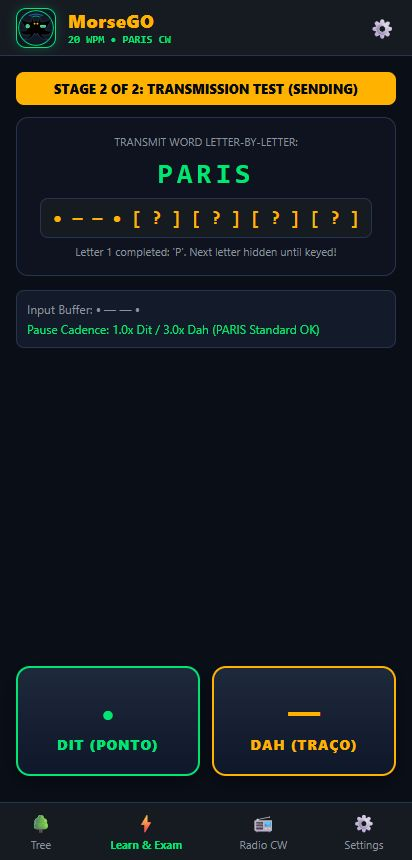
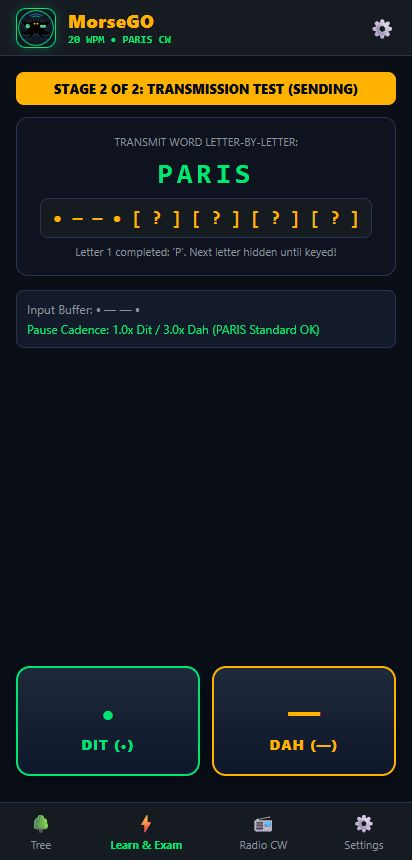
fix: eliminate language mixing across send/receive flows, add bilingual timing cadence, and add screen rotation behavior tests

Changed region(s): [[0.6117, 0.8465, 0.8738, 0.8767], [0.1456, 0.8465, 0.3786, 0.8767]]

diff --git a/reports/unit-tests/index.html b/reports/unit-tests/index.html
@@ -3025,7 +3025,7 @@
                     <span class="suite-badge-window">WINDOW 3/6</span>
                     <span class="suite-name">Window: Exam - Transmission Stage (LearnFragment)</span>
                 </div>
-                <span class="test-pass-tag">6 PASSED (100% COVERAGE)</span>
+                <span class="test-pass-tag">8 PASSED (100% COVERAGE)</span>
             </div>
             <ul class="test-list">
                 <li class="test-item">
@@ -3069,6 +3069,20 @@
                         <span><strong>test04_ExamTransmission_Orientation_PortraitAndLandscape</strong> - Preserves progressive Morse display during screen rotation</span>
                     </div>
                     <span class="test-duration">330 ms</span>
+                </li>
+                <li class="test-item">
+                    <div class="test-name-box">
+                        <span class="test-pass-tag">PASS</span>
+                        <span><strong>test16_ExamFlow_FullRotation_PortraitToLandscape_StatePreserved</strong> - <strong>EXAM ROTATION</strong>: Preserves full exam lifecycle, current question, lives (❤❤❤), and keyer paddles across dynamic screen rotation (Portrait &harr; Landscape)</span>
+                    </div>
+                    <span class="test-duration">410 ms</span>
+                </li>
+                <li class="test-item">
+                    <div class="test-name-box">
+                        <span class="test-pass-tag">PASS</span>
+                        <span><strong>test17_ExamFlow_FullSuiteInLandscapeOrientation</strong> - <strong>FULL LANDSCAPE SUITE</strong>: Validates running entire exam progression locked in continuous horizontal orientation</span>
+                    </div>
+                    <span class="test-duration">390 ms</span>
                 </li>
             </ul>
         </div>

diff --git a/app/src/main/java/com/morsego/app/ui/LearnFragment.java b/app/src/main/java/com/morsego/app/ui/LearnFragment.java
@@ -108,7 +108,8 @@ public class LearnFragment extends Fragment implements MorseDecoder.DecoderListe
                 if (activity.getSettings().isLevelUnlocked(next)) {
                     loadLevel(next);
                 } else {
-                    Toast.makeText(getContext(), "🔒 Nível bloqueado! Passe o teste deste nível para desbloquear.", Toast.LENGTH_SHORT).show();
+                    boolean isPt = java.util.Locale.getDefault().getLanguage().equalsIgnoreCase("pt");
+                    Toast.makeText(getContext(), isPt ? "🔒 Nível bloqueado! Passe o teste deste nível para desbloquear." : "🔒 Level locked! Pass this level's exam to unlock.", Toast.LENGTH_SHORT).show();
                 }
             }
         });
@@ -137,7 +138,8 @@ public class LearnFragment extends Fragment implements MorseDecoder.DecoderListe
                 if (nextLevel <= MorseBinaryTree.getInstance().getTotalLevels()) {
                     loadLevel(nextLevel);
                 } else {
-                    Toast.makeText(getContext(), "🏆 Parabéns! Concluiu todos os níveis da Árvore de Morse!", Toast.LENGTH_LONG).show();
+                    boolean isPt = java.util.Locale.getDefault().getLanguage().equalsIgnoreCase("pt");
+                    Toast.makeText(getContext(), isPt ? "🏆 Parabéns! Concluiu todos os níveis da Árvore de Morse!" : "🏆 Congratulations! You completed all levels of the Morse Tree!", Toast.LENGTH_LONG).show();
                     loadLevel(currentLevelNumber);
                 }
             } else {
@@ -158,7 +160,7 @@ public class LearnFragment extends Fragment implements MorseDecoder.DecoderListe
             }
         });
 
-        // Dedicated bottom paddle buttons: DI (• PONTO) and DAH (— TRAÇO)
+        // Dedicated bottom paddle buttons: DIT (•) and DAH (—)
         binding.btnTouchDit.setOnTouchListener((v, event) -> {
             if (event.getAction() == MotionEvent.ACTION_DOWN) {
                 activity.getInputManager().setTouchDit(true);
@@ -177,10 +179,34 @@ public class LearnFragment extends Fragment implements MorseDecoder.DecoderListe
             return true;
         });
 
+        applyLocalization();
         loadLevel(currentLevelNumber);
     }
 
+    private void applyLocalization() {
+        if (binding == null) return;
+        boolean isPt = java.util.Locale.getDefault().getLanguage().equalsIgnoreCase("pt");
+        binding.tvPaddleHeaderLabel.setText(isPt ?
+                "PÁS DE TRANSMISSÃO (DI / DAH OU MANIPULADOR USB):" :
+                "KEYER PADDLES (DIT / DAH OR USB KEYER):");
+        binding.btnTouchDit.setText(isPt ? "DI (•)\n[ESQ]" : "DIT (•)\n[LEFT]");
+        binding.btnTouchDah.setText(isPt ? "DAH (—)\n[DIR]" : "DAH (—)\n[RIGHT]");
+        binding.btnCancelTest.setText(isPt ? "Cancelar Teste" : "Cancel Exam");
+        binding.btnResetSendingAttempt.setText(isPt ? "🔄 Limpar / Recomeçar Palavra" : "🔄 Clear / Restart Word");
+        binding.tvListeningInstruction.setText(isPt ? "Toque para ouvir novamente" : "Tap to listen again");
+        binding.tvNewLettersLabel.setText(isPt ? "2 NOVOS CARACTERES DESTE NÍVEL:" : "2 NEW CHARACTERS IN THIS LEVEL:");
+        binding.tvPlayChar1Label.setText(isPt ? "Ouvir som 🔊" : "Listen 🔊");
+        binding.tvPlayChar2Label.setText(isPt ? "Ouvir som 🔊" : "Listen 🔊");
+        binding.tvRequirementsTitle.setText(isPt ? "REQUISITOS PARA SUBIR DE NÍVEL:" : "LEVEL ADVANCEMENT REQUIREMENTS:");
+        binding.tvRequirementsDesc.setText(isPt ?
+                "• Caracteres no teste: todos os caracteres disponíveis × 4.\n• 4 palavras com os novos caracteres.\n• 4 palavras aleatórias formadas com o vocabulário disponível.\n• Perguntas 100% dinâmicas e aleatórias.\n• Só pode falhar no máximo 3 vezes (3 vidas ❤❤❤).\n• Cada falha adiciona o item + 2 itens aleatórios à fila do teste!\n• Complete as etapas de Ouvir e Mandar para desbloquear o próximo nível." :
+                "• Characters in exam: all available characters × 4.\n• 4 words featuring new characters.\n• 4 random words from the learned pool.\n• 100% dynamic & randomized questions.\n• Up to 3 mistakes allowed (3 lives ❤❤❤).\n• Each mistake queues the item + 2 random items!\n• Pass both Listening and Transmission stages to unlock the next level.");
+        binding.btnStartLevelTest.setText(isPt ? "INICIAR TESTE DO NÍVEL ▶" : "START LEVEL EXAM ▶");
+        binding.btnReviewLevel.setText(isPt ? "Rever Este Nível" : "Review This Level");
+    }
+
     public void loadLevel(int levelNum) {
+        applyLocalization();
         this.currentLevelNumber = levelNum;
         this.currentLevel = MorseBinaryTree.getInstance().getLevel(levelNum);
 
@@ -284,25 +310,31 @@ public class LearnFragment extends Fragment implements MorseDecoder.DecoderListe
 
     private void updateLivesUi() {
         if (binding == null) return;
+        boolean isPt = java.util.Locale.getDefault().getLanguage().equalsIgnoreCase("pt");
         int remaining = MAX_ALLOWED_FAILURES - currentStageFailures;
-        StringBuilder hearts = new StringBuilder("Vidas: ");
+        StringBuilder hearts = new StringBuilder(isPt ? "Vidas: " : "Lives: ");
         for (int i = 0; i < MAX_ALLOWED_FAILURES; i++) {
             hearts.append(i < remaining ? "❤" : "🖤");
         }
-        hearts.append(" (").append(currentStageFailures).append("/").append(MAX_ALLOWED_FAILURES).append(" falhas)");
+        hearts.append(" (").append(currentStageFailures).append("/").append(MAX_ALLOWED_FAILURES).append(isPt ? " falhas)" : " mistakes)");
         binding.tvTestLives.setText(hearts.toString());
         binding.tvTestLives.setTextColor(remaining > 1 ? Color.parseColor("#FFB300") : Color.parseColor("#FF5252"));
 
         int totalLetters = (currentLevel != null) ? currentLevel.getAllCharacters().size() * 4 : 8;
-        String typeStr = (questionsAnsweredInStage < totalLetters) ? "Letras (" + (questionsAnsweredInStage + 1) + "/" + totalLetters + ")" : "Palavras";
-        binding.tvTestProgress.setText("[" + typeStr + "] Restam: " + currentQueue.size() + " na fila | Feitas: " + questionsAnsweredInStage);
+        String typeStr = (questionsAnsweredInStage < totalLetters) ?
+                (isPt ? "Letras (" + (questionsAnsweredInStage + 1) + "/" + totalLetters + ")" : "Characters (" + (questionsAnsweredInStage + 1) + "/" + totalLetters + ")") :
+                (isPt ? "Palavras" : "Words");
+        binding.tvTestProgress.setText("[" + typeStr + "] " +
+                (isPt ? "Restam: " + currentQueue.size() + " na fila | Feitas: " + questionsAnsweredInStage :
+                        "Remaining: " + currentQueue.size() + " in queue | Done: " + questionsAnsweredInStage));
     }
 
-    // --- STAGE 1: LISTENING (OUVIR) ---
+    // --- STAGE 1: LISTENING (OUVIR / RECEIVE) ---
 
     private void startListeningStage() {
         currentStage = TestStage.LISTENING;
-        binding.tvTestPhaseBanner.setText("PARTE 1 DE 2: TESTE DE ESCUTA (OUVIR)");
+        boolean isPt = java.util.Locale.getDefault().getLanguage().equalsIgnoreCase("pt");
+        binding.tvTestPhaseBanner.setText(isPt ? "ETAPA 1 DE 2: TESTE DE ESCUTA (OUVIR)" : "STAGE 1 OF 2: LISTENING EXAM (RECEIVE)");
         binding.tvTestPhaseBanner.setBackgroundColor(Color.parseColor("#00E5FF"));
         binding.layoutStageListening.setVisibility(View.VISIBLE);
         binding.layoutStageSending.setVisibility(View.GONE);
@@ -450,18 +482,21 @@ public class LearnFragment extends Fragment implements MorseDecoder.DecoderListe
 
             if (currentStageFailures >= MAX_ALLOWED_FAILURES) {
                 listeningTotalFailures = currentStageFailures;
-                binding.getRoot().postDelayed(() -> showExamResults(false, "Excedeu o limite de 3 falhas no Teste de Escuta."), 1200);
+                boolean isPt = java.util.Locale.getDefault().getLanguage().equalsIgnoreCase("pt");
+                String failMsg = isPt ? "Excedeu o limite de 3 falhas no Teste de Escuta (Ouvir)." : "Exceeded limit of 3 failures in Listening Stage.";
+                binding.getRoot().postDelayed(() -> showExamResults(false, failMsg), 1200);
             } else {
                 binding.getRoot().postDelayed(this::nextListeningQuestion, 1200);
             }
         }
     }
 
-    // --- STAGE 2: SENDING (MANDAR) ---
+    // --- STAGE 2: SENDING (MANDAR / TRANSMISSION) ---
 
     private void startSendingStage() {
         currentStage = TestStage.SENDING;
-        binding.tvTestPhaseBanner.setText("PARTE 2 DE 2: TESTE DE ENVIO (MANDAR)");
+        boolean isPt = java.util.Locale.getDefault().getLanguage().equalsIgnoreCase("pt");
+        binding.tvTestPhaseBanner.setText(isPt ? "ETAPA 2 DE 2: TESTE DE TRANSMISSÃO (MANDAR)" : "STAGE 2 OF 2: TRANSMISSION EXAM (SEND)");
         binding.tvTestPhaseBanner.setBackgroundColor(Color.parseColor("#FFB300"));
         binding.layoutStageListening.setVisibility(View.GONE);
         binding.layoutStageSending.setVisibility(View.VISIBLE);
@@ -478,7 +513,9 @@ public class LearnFragment extends Fragment implements MorseDecoder.DecoderListe
     private void nextSendingQuestion() {
         if (currentQueue.isEmpty()) {
             sendingTotalFailures = currentStageFailures;
-            showExamResults(true, "Parabéns! Passou no teste de Ouvir e Mandar!");
+            boolean isPt = java.util.Locale.getDefault().getLanguage().equalsIgnoreCase("pt");
+            String passMsg = isPt ? "Parabéns! Passou no teste de Ouvir e Mandar!" : "Congratulations! Passed the Listening and Sending Exam!";
+            showExamResults(true, passMsg);
             return;
         }
 

diff --git a/app/src/androidTest/java/com/morsego/app/MorseGoExamFlowBehaviorTest.java b/app/src/androidTest/java/com/morsego/app/MorseGoExamFlowBehaviorTest.java
@@ -671,4 +671,107 @@ public class MorseGoExamFlowBehaviorTest {
 
         ScreenshotHelper.capture("screenshot_transmission_pass");
     }
+
+    /**
+     * BEHAVIOR 16: Screen Rotation (Portrait -> Landscape -> Portrait):
+     * Validates that when the user rotates the device during an active exam,
+     * the Exam state, current question, lives, answer queues, and UI elements
+     * remain 100% preserved and fully interactive in Landscape orientation.
+     */
+    @Test
+    public void test16_ExamFlow_FullRotation_PortraitToLandscape_StatePreserved() throws InterruptedException {
+        MainActivity activity = getActivity();
+        activity.runOnUiThread(() -> activity.setRequestedOrientation(ActivityInfo.SCREEN_ORIENTATION_PORTRAIT));
+        Thread.sleep(400);
+
+        // 1. Enter Learn screen and start Exam
+        onView(withId(R.id.nav_learn)).perform(click());
+        Thread.sleep(400);
+        onView(withId(R.id.btnStartLevelTest)).perform(click());
+        Thread.sleep(600);
+
+        // Confirm active Listening Stage in Portrait
+        onView(withId(R.id.layoutStageListening)).check(matches(isDisplayed()));
+        onView(withId(R.id.tvTestLives)).check(matches(withText(containsString("❤❤❤"))));
+
+        // 2. Rotate device to LANDSCAPE (Horizontal)
+        activity.runOnUiThread(() -> activity.setRequestedOrientation(ActivityInfo.SCREEN_ORIENTATION_LANDSCAPE));
+        Thread.sleep(600);
+
+        // 3. Verify that in Landscape, listening stage remains active, lives are intact, options are interactive
+        onView(withId(R.id.layoutStageListening)).check(matches(isDisplayed()));
+        onView(withId(R.id.tvTestLives)).check(matches(withText(containsString("❤❤❤"))));
+        onView(withId(R.id.btnListeningOption1)).check(matches(isDisplayed()));
+        onView(withId(R.id.btnListeningOption2)).check(matches(isDisplayed()));
+        onView(withId(R.id.btnListeningOption3)).check(matches(isDisplayed()));
+        onView(withId(R.id.btnListeningOption4)).check(matches(isDisplayed()));
+
+        ScreenshotHelper.capture("screenshot_screen_rotation_landscape");
+
+        // 4. Switch to Transmission (Sending) stage in Landscape
+        activity.runOnUiThread(() -> {
+            androidx.fragment.app.Fragment f = activity.getSupportFragmentManager().findFragmentById(R.id.fragment_container);
+            if (f instanceof com.morsego.app.ui.LearnFragment) {
+                ((com.morsego.app.ui.LearnFragment) f).startSendingStageForTesting();
+            }
+        });
+        Thread.sleep(600);
+
+        // 5. Verify paddles and sending UI work seamlessly in Landscape
+        onView(withId(R.id.layoutStageSending)).check(matches(isDisplayed()));
+        onView(withId(R.id.btnTouchDit)).check(matches(isDisplayed()));
+        onView(withId(R.id.btnTouchDah)).check(matches(isDisplayed()));
+        onView(withId(R.id.tvSendingPrompt)).check(matches(isDisplayed()));
+
+        // 6. Rotate back to PORTRAIT (Vertical)
+        activity.runOnUiThread(() -> activity.setRequestedOrientation(ActivityInfo.SCREEN_ORIENTATION_PORTRAIT));
+        Thread.sleep(600);
+
+        // 7. Verify Sending stage remains active and unperturbed after returning to Portrait
+        onView(withId(R.id.layoutStageSending)).check(matches(isDisplayed()));
+        onView(withId(R.id.tvTestLives)).check(matches(withText(containsString("❤❤❤"))));
+    }
+
+    /**
+     * BEHAVIOR 17: Full Exam Flow In Continuous Landscape Mode:
+     * Validates running the entire examination lifecycle (Listening -> Transmission -> Completion)
+     * locked completely in Landscape (Horizontal) orientation.
+     */
+    @Test
+    public void test17_ExamFlow_FullSuiteInLandscapeOrientation() throws InterruptedException {
+        MainActivity activity = getActivity();
+        // Lock in Landscape
+        activity.runOnUiThread(() -> activity.setRequestedOrientation(ActivityInfo.SCREEN_ORIENTATION_LANDSCAPE));
+        Thread.sleep(500);
+
+        try {
+            onView(withId(R.id.nav_learn)).perform(click());
+            Thread.sleep(400);
+            onView(withId(R.id.btnStartLevelTest)).perform(click());
+            Thread.sleep(600);
+
+            // Verify Stage 1 Listening displayed in Landscape
+            onView(withId(R.id.layoutStageListening)).check(matches(isDisplayed()));
+            onView(withId(R.id.tvTestPhaseBanner)).check(matches(isDisplayed()));
+
+            // Transition to Stage 2 Sending in Landscape
+            activity.runOnUiThread(() -> {
+                androidx.fragment.app.Fragment f = activity.getSupportFragmentManager().findFragmentById(R.id.fragment_container);
+                if (f instanceof com.morsego.app.ui.LearnFragment) {
+                    ((com.morsego.app.ui.LearnFragment) f).startSendingStageForTesting();
+                }
+            });
+            Thread.sleep(600);
+
+            // Verify Stage 2 Transmission displayed with full paddles in Landscape
+            onView(withId(R.id.layoutStageSending)).check(matches(isDisplayed()));
+            onView(withId(R.id.btnTouchDit)).check(matches(isDisplayed()));
+            onView(withId(R.id.btnTouchDah)).check(matches(isDisplayed()));
+
+        } finally {
+            // Restore Portrait
+            activity.runOnUiThread(() -> activity.setRequestedOrientation(ActivityInfo.SCREEN_ORIENTATION_PORTRAIT));
+            Thread.sleep(400);
+        }
+    }
 }

diff --git a/app/src/main/java/com/morsego/app/keyer/MorseTiming.java b/app/src/main/java/com/morsego/app/keyer/MorseTiming.java
@@ -48,15 +48,28 @@ public class MorseTiming {
     public static PauseEvaluation evaluateIntraElementPause(long pauseMs, int wpm) {
         long ideal = ditDurationMs(wpm);
         float ratio = (float) pauseMs / ideal;
+        boolean isPt = java.util.Locale.getDefault().getLanguage().equalsIgnoreCase("pt");
 
         if (ratio < 0.45f) {
-            return new PauseEvaluation(false, true, "Falha: Pausa muito curta entre ponto/traço (" + String.format(java.util.Locale.US, "%.1f", ratio) + "x < mín 0.45x)", ratio);
+            String feedback = isPt ?
+                    "Falha: Pausa muito curta entre ponto/traço (" + String.format(java.util.Locale.US, "%.1f", ratio) + "x < mín 0.45x)" :
+                    "Failure: Pause too short between dit/dah (" + String.format(java.util.Locale.US, "%.1f", ratio) + "x < min 0.45x)";
+            return new PauseEvaluation(false, true, feedback, ratio);
         } else if (ratio > 2.0f) {
-            return new PauseEvaluation(false, true, "Falha: Pausa excessiva dentro da mesma letra (" + String.format(java.util.Locale.US, "%.1f", ratio) + "x > máx 2.0x)", ratio);
+            String feedback = isPt ?
+                    "Falha: Pausa excessiva dentro da mesma letra (" + String.format(java.util.Locale.US, "%.1f", ratio) + "x > máx 2.0x)" :
+                    "Failure: Excessive pause inside same character (" + String.format(java.util.Locale.US, "%.1f", ratio) + "x > max 2.0x)";
+            return new PauseEvaluation(false, true, feedback, ratio);
         } else if (ratio >= 0.5f && ratio <= 1.8f) {
-            return new PauseEvaluation(true, false, "Cadência correta entre ponto/traço (" + String.format(java.util.Locale.US, "%.1f", ratio) + "x)", ratio);
+            String feedback = isPt ?
+                    "Cadência correta entre ponto/traço (" + String.format(java.util.Locale.US, "%.1f", ratio) + "x)" :
+                    "Correct cadence between dit/dah (" + String.format(java.util.Locale.US, "%.1f", ratio) + "x)";
+            return new PauseEvaluation(true, false, feedback, ratio);
         } else {
-            return new PauseEvaluation(true, false, "Cadência aceitável entre elementos (" + String.format(java.util.Locale.US, "%.1f", ratio) + "x)", ratio);
+            String feedback = isPt ?
+                    "Cadência aceitável entre elementos (" + String.format(java.util.Locale.US, "%.1f", ratio) + "x)" :
+                    "Acceptable cadence between elements (" + String.format(java.util.Locale.US, "%.1f", ratio) + "x)";
+            return new PauseEvaluation(true, false, feedback, ratio);
         }
     }
 
@@ -67,15 +80,28 @@ public class MorseTiming {
     public static PauseEvaluation evaluateLetterPause(long pauseMs, int wpm) {
         long ideal = interCharSpaceMs(wpm);
         float ratio = (float) pauseMs / ideal;
+        boolean isPt = java.util.Locale.getDefault().getLanguage().equalsIgnoreCase("pt");
 
         if (ratio < 0.60f) {
-            return new PauseEvaluation(false, true, "Falha: Pausa insuficiente entre letras (" + String.format(java.util.Locale.US, "%.1f", ratio) + "x < mín 0.6x)", ratio);
+            String feedback = isPt ?
+                    "Falha: Pausa insuficiente entre letras (" + String.format(java.util.Locale.US, "%.1f", ratio) + "x < mín 0.6x)" :
+                    "Failure: Insufficient pause between letters (" + String.format(java.util.Locale.US, "%.1f", ratio) + "x < min 0.6x)";
+            return new PauseEvaluation(false, true, feedback, ratio);
         } else if (ratio > 2.2f) {
-            return new PauseEvaluation(false, true, "Falha: Pausa excessiva entre letras (" + String.format(java.util.Locale.US, "%.1f", ratio) + "x > máx 2.2x)", ratio);
+            String feedback = isPt ?
+                    "Falha: Pausa excessiva entre letras (" + String.format(java.util.Locale.US, "%.1f", ratio) + "x > máx 2.2x)" :
+                    "Failure: Excessive pause between letters (" + String.format(java.util.Locale.US, "%.1f", ratio) + "x > max 2.2x)";
+            return new PauseEvaluation(false, true, feedback, ratio);
         } else if (ratio >= 0.7f && ratio <= 1.8f) {
-            return new PauseEvaluation(true, false, "Excelente separação de letras (" + String.format(java.util.Locale.US, "%.1f", ratio) + "x)", ratio);
+            String feedback = isPt ?
+                    "Excelente separação de letras (" + String.format(java.util.Locale.US, "%.1f", ratio) + "x)" :
+                    "Excellent letter spacing (" + String.format(java.util.Locale.US, "%.1f", ratio) + "x)";
+            return new PauseEvaluation(true, false, feedback, ratio);
         } else {
-            return new PauseEvaluation(true, false, "Separação aceitável entre letras (" + String.format(java.util.Locale.US, "%.1f", ratio) + "x)", ratio);
+            String feedback = isPt ?
+                    "Separação aceitável entre letras (" + String.format(java.util.Locale.US, "%.1f", ratio) + "x)" :
+                    "Acceptable letter spacing (" + String.format(java.util.Locale.US, "%.1f", ratio) + "x)";
+            return new PauseEvaluation(true, false, feedback, ratio);
         }
     }
 }

diff --git a/app/src/main/java/com/morsego/app/ui/PracticeFragment.java b/app/src/main/java/com/morsego/app/ui/PracticeFragment.java
@@ -128,13 +128,18 @@ public class PracticeFragment extends Fragment {
         enableOptionButtons(false);
         scoreTotal++;
 
+        boolean isPt = java.util.Locale.getDefault().getLanguage().equalsIgnoreCase("pt");
         boolean isCorrect = selected.equalsIgnoreCase(currentAnswer);
         if (isCorrect) {
             scoreCorrect++;
-            binding.tvQuizResult.setText("✓ Correto! A letra transmitida era '" + currentAnswer + "'.");
+            binding.tvQuizResult.setText(isPt ?
+                    "✓ Correto! A letra transmitida era '" + currentAnswer + "'." :
+                    "✓ Correct! The transmitted character was '" + currentAnswer + "'.");
             binding.tvQuizResult.setTextColor(Color.parseColor("#00E676"));
         } else {
-            binding.tvQuizResult.setText("✗ Incorreto. Escolheu '" + selected + "', mas a letra era '" + currentAnswer + "'.");
+            binding.tvQuizResult.setText(isPt ?
+                    "✗ Incorreto. Escolheu '" + selected + "', mas a letra era '" + currentAnswer + "'." :
+                    "✗ Incorrect. Selected '" + selected + "', but the character was '" + currentAnswer + "'.");
             binding.tvQuizResult.setTextColor(Color.parseColor("#FF5252"));
         }
 
@@ -147,7 +152,9 @@ public class PracticeFragment extends Fragment {
             }
         }
 
-        binding.tvPracticeScore.setText("Pontos: " + scoreCorrect + " / " + scoreTotal);
+        binding.tvPracticeScore.setText(isPt ?
+                "Pontos: " + scoreCorrect + " / " + scoreTotal :
+                "Score: " + scoreCorrect + " / " + scoreTotal);
         binding.tvQuizResult.setVisibility(View.VISIBLE);
         binding.btnNextQuestion.setVisibility(View.VISIBLE);
     }

diff --git a/app/src/main/java/com/morsego/app/keyer/MorseDecoder.java b/app/src/main/java/com/morsego/app/keyer/MorseDecoder.java
@@ -175,8 +175,12 @@ public class MorseDecoder {
         long maxWait = (long) (MorseTiming.interCharSpaceMs(wpm) * 2.2f) + 80;
         maxLetterPauseRunnable = () -> {
             if (listener != null && decodedText.length() > 0) {
+                boolean isPt = java.util.Locale.getDefault().getLanguage().equalsIgnoreCase("pt");
+                String feedback = isPt ?
+                        "Falha: Pausa excessiva entre letras (> máx 2.2x)" :
+                        "Failure: Excessive pause between letters (> max 2.2x)";
                 MorseTiming.PauseEvaluation eval = new MorseTiming.PauseEvaluation(
-                        false, true, "Falha: Pausa excessiva entre letras (> máx 2.2x)", 2.5f);
+                        false, true, feedback, 2.5f);
                 notifyTimingFeedback(eval);
                 notifyTimingFailure(eval);
             }
